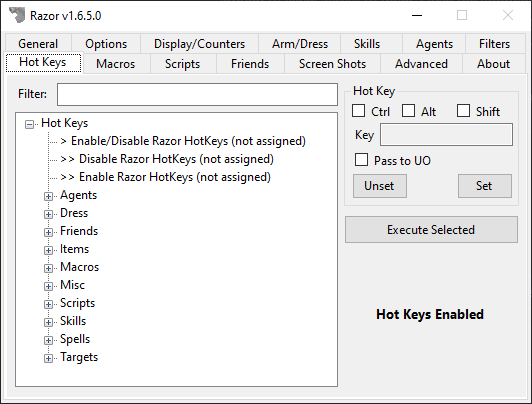
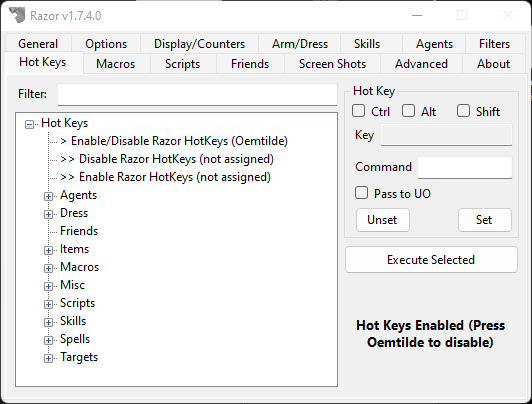
Update site and version number

diff --git a/help/docs/index.md b/help/docs/index.md
@@ -7,53 +7,18 @@
 
 Razor is a free tool designed to help with simple tasks while playing Ultima Online.
 
-This guide was written for the **Razor Community Edition**.
-
-For more information about this version of Razor, read the [history](#history), review the [release notes](./releasenotes.md) and [download](./download.md) Razor.
-
-# Overview
-
-## Project Goal
+This site was written for the **Razor Community Edition**.
 
 The goal of this project was to revive and continue development and maintenance of the abandoned Razor project, focusing on *quality of life* improvements while attempting to keep the spirit and vision the original developers had for Razor by not driving down the path of advanced automation that's found in other UO assistants.
 
-## History
-
-Razor was originally designed by Bryan Pass, known as Zippy in the RunUO community as a replacement to UOAssist. Based on commit notes, active development (new features, bug fixes) on Razor ceased some time in the early 2010's with the source code being released in 2014.
-
-The code initially didn't include `Crypt.dll` and `Loader.dll` which are required to fully integrate with the UO client. At some point, the code for those projects released into the same [GitHub repo](https://github.com/msturgill/razor).
-
-The original project was last updated May 2nd, 2014 which was simply an update from .NET 2.0 to .NET 4.0 and while over 50 forks exist on GitHub, none of them have been active or have made significant changes except for a few exceptions:
-
-* `Jaedan` (which this version is based on) who updated the original Razor project to compile and work in Visual Studio 2017 and made improvements to `Crypt.dll` that enabled this project to move forward.
-* `SaschaKP` who made several performance changes from generic to non-generic collections that I incorporated in the first release.
-
-I have been actively maintaining this project since early April 2018 and based this version off of `1.4.0.3`, which was simply the version `1.0.13.13` updated to .NET 4.0.
-
-Another closed source version of Razor exists (the `1.0.14.x` versions) that was maintained by a private shard that made some enhancements, notably around targeting. This version of Razor has long since incorporated the majority of changes you can find in that version.
-
-In June 2019 integration into [ClassicUO](https://github.com/andreakarasho/ClassicUO) was officially established.
-
-In March 2020 the [Razor Scripting Engine](https://www.razorce.com/guide/) was added to make it easier to read, create, edit and share Razor scripts while staying true to the project's state goals.
-
-## Community Edition
-
-When I started this project back in early 2018, nearly all the [feedback, ideas, discussion](https://www.uorforum.com/threads/improving-razor-razor-development.33134/) and [testing](https://www.uorforum.com/threads/razor-1-5-bug-issue-release-tracking.33405/) came from the [UO:Renaissance](http://www.uorenaissance.com) community, one of the only freeshards where the rules only allow for the use of Razor. The original **UO:R Community Edition** name was used to not only distinguish between other versions of Razor that were available but give credit to a community that provided so much support early on.
-
-As the popularity of this version grew, especially after the implementation of ClassicUO support, it became widely used across the whole UO freeshard community, from small private shards to some of the largest shards in the community and continues to be built on the feedback and contributions from all different corners of the community.
-
-With that said, I find it more appropriate to simply call this version the **Razor Community Edition**.
-
-Thank you to everyone across the whole UO freeshard community who has contributed to this version of Razor in some way.
-
-If you'd like contribute, see the [CONTRIBUTING](https://github.com/markdwags/Razor/blob/master/CONTRIBUTING.md) file for more information.
+For more information about this version of Razor, read the [history](#history), review the [release notes](./releasenotes.md) and [download](./download.md) Razor.
 
 # Help
 
 If you're unable to find a solution using the information here or you'd like to submit a feature request or bug report, use the following resources.
 
 * Submit a feature/bug/issue on our [official Razor GitHub Repo](https://github.com/markdwags/Razor/issues).
-* Join us in #razor on Discord (we use the the official [ClassicUO](https://www.classicuo.eu/) Discord server)
+* Join us in `#razor` on Discord (we use the the official [ClassicUO](https://www.classicuo.eu/) Discord server)
 
 [![Chat on Discord status](https://img.shields.io/discord/458277173208547350.svg?logo=discord)](https://discord.gg/zrdyYcc)
 

diff --git a/help/docs/history.md b/help/docs/history.md
@@ -1,0 +1,30 @@
+# History
+
+Razor was originally designed by Bryan Pass, known as Zippy in the RunUO community as a replacement to UOAssist. Based on commit notes, active development (new features, bug fixes) on Razor ceased some time in the early 2010's with the source code being released in 2014.
+
+The code initially didn't include `Crypt.dll` and `Loader.dll` which are required to fully integrate with the UO client. At some point, the code for those projects released into the same [GitHub repo](https://github.com/msturgill/razor).
+
+The original project was last updated May 2nd, 2014 which was simply an update from .NET 2.0 to .NET 4.0 and while over 50 forks exist on GitHub, none of them have been active or have made significant changes except for a few exceptions:
+
+* `Jaedan` (which this version is based on) who updated the original Razor project to compile and work in Visual Studio 2017 and made improvements to `Crypt.dll` that enabled this project to move forward.
+* `SaschaKP` who made several performance changes from generic to non-generic collections that I incorporated in the first release.
+
+I have been actively maintaining this project since early April 2018 and based this version off of `1.4.0.3`, which was simply the version `1.0.13.13` updated to .NET 4.0.
+
+Another closed source version of Razor exists (the `1.0.14.x` versions) that was maintained by a private shard that made some enhancements, notably around targeting. This version of Razor has long since incorporated the majority of changes you can find in that version.
+
+In June 2019 integration into [ClassicUO](https://github.com/andreakarasho/ClassicUO) was officially established.
+
+In March 2020 the [Razor Scripting Engine](https://www.razorce.com/guide/) was added to make it easier to read, create, edit and share Razor scripts while staying true to the project's state goals.
+
+## Community Edition
+
+When I started this project back in early 2018, nearly all the [feedback, ideas, discussion](https://www.uorforum.com/threads/improving-razor-razor-development.33134/) and [testing](https://www.uorforum.com/threads/razor-1-5-bug-issue-release-tracking.33405/) came from the [UO:Renaissance](http://www.uorenaissance.com) community, one of the only freeshards where the rules only allow for the use of Razor. The original **UO:R Community Edition** name was used to not only distinguish between other versions of Razor that were available but give credit to a community that provided so much support early on.
+
+As the popularity of this version grew, especially after the implementation of ClassicUO support, it became widely used across the whole UO freeshard community, from small private shards to some of the largest shards in the community and continues to be built on the feedback and contributions from all different corners of the community.
+
+With that said, I find it more appropriate to simply call this version the **Razor Community Edition**.
+
+Thank you to everyone across the whole UO freeshard community who has contributed to this version of Razor in some way.
+
+If you'd like contribute, see the [CONTRIBUTING](https://github.com/markdwags/Razor/blob/master/CONTRIBUTING.md) file for more information.

diff --git a/help/docs/releasenotes.md b/help/docs/releasenotes.md
@@ -2,11 +2,29 @@
 
 Below is a list of the latest releases notes going back to the first release of this version of Razor.
 
+## 1.7.4.49 (07/26/2022)
+
+* Added `followers` and `maxfollowers` expressions
+* You can manage your agents in-game using `>restock #`, `>org #`, or `>buy #`
+* `>info` command will display an image of the item
+* Added the option for Next/Prev to be alphabetical
+* Updated how damage when dealt or taken is displayed
+* Fixed the mobile filter so it doesn't rely on movement
+* Mobile filter is applied to mobiles on the screen when changing it in the UI
+* Added wyrm as a mobile filter
+* Added `targetexists` expression
+* Added `diffhits, diffweight, diffmana, diffstam` expressions
+* If the server disables macro loops that will also disable script loops
+* Added an [index variable](https://www.razorce.com/guide/variables/#index-variable) to reference in scripts
+* Added `name, paralyzed, invuln, warmode` expressions
+* You can now assign `>custom` commands to hotkeys and execute using a command
+* Fixed issue with the macro/script key binding not always displaying correctly in the UI
+
 ## 1.7.3.36 (01/10/2022)
 
 * Option for buy agents to ignore the amount of gold you have
 * `findtype`, `targettype`, `liftype` will match on the full item name only
-* Agents can be assigned an alias to be more easily identified in the dropdown
+* Agents can be assigned an [alias to be more easily identified in the dropdown](https://www.razorce.com/help/agents/#aliases)
 * Agent aliases can be used in scripts
 * Organizer and restock agent won't force the UI to come to the front when executing via scripts
 * Added Next/Prev Friendly hotkey

diff --git a/help/docs/help/hotkeys.md b/help/docs/help/hotkeys.md
@@ -14,6 +14,8 @@ As you type in this box, the list will be narrowed down helping you find a speci
     - Located on the right, these are used to select the key. Once you have highlighted the hotkey to be set from the left index, click in the key field and type the key to be used for that setting. If you want to use a key with control, shift or alt keys, check them as well.
 - **Unset/Set**
     - Once you select the key, click Set. If this key combination has already been used by another setting in Razor, a warning is given. If the set is successful, the hotkey will appear beside the entry in the index. Click Unset to remove the key combination.
+- **Command**
+    - You can define a custom command (accessed via `>command`) here that will execute this hotkey wouldn't hitting the key combination.
 - **Pass to UO**
     - When you set a hotkey, it becomes a key combination for Razor. Check this box to have hotkeys continue on to the client. If you do not check this box, Razor will read the command and it will go no further.
 - **Execute Selected**

diff --git a/help/docs/help/agents.md b/help/docs/help/agents.md
@@ -4,6 +4,8 @@ The Agents tab is for organizing, restocking and moving items.
 
 ![agents](../images/agents.png)
 
+## Aliases
+
 !!! tip "Aliases"
 
     You can right-click on an agent and assign it an aliases to help identify it easier.
